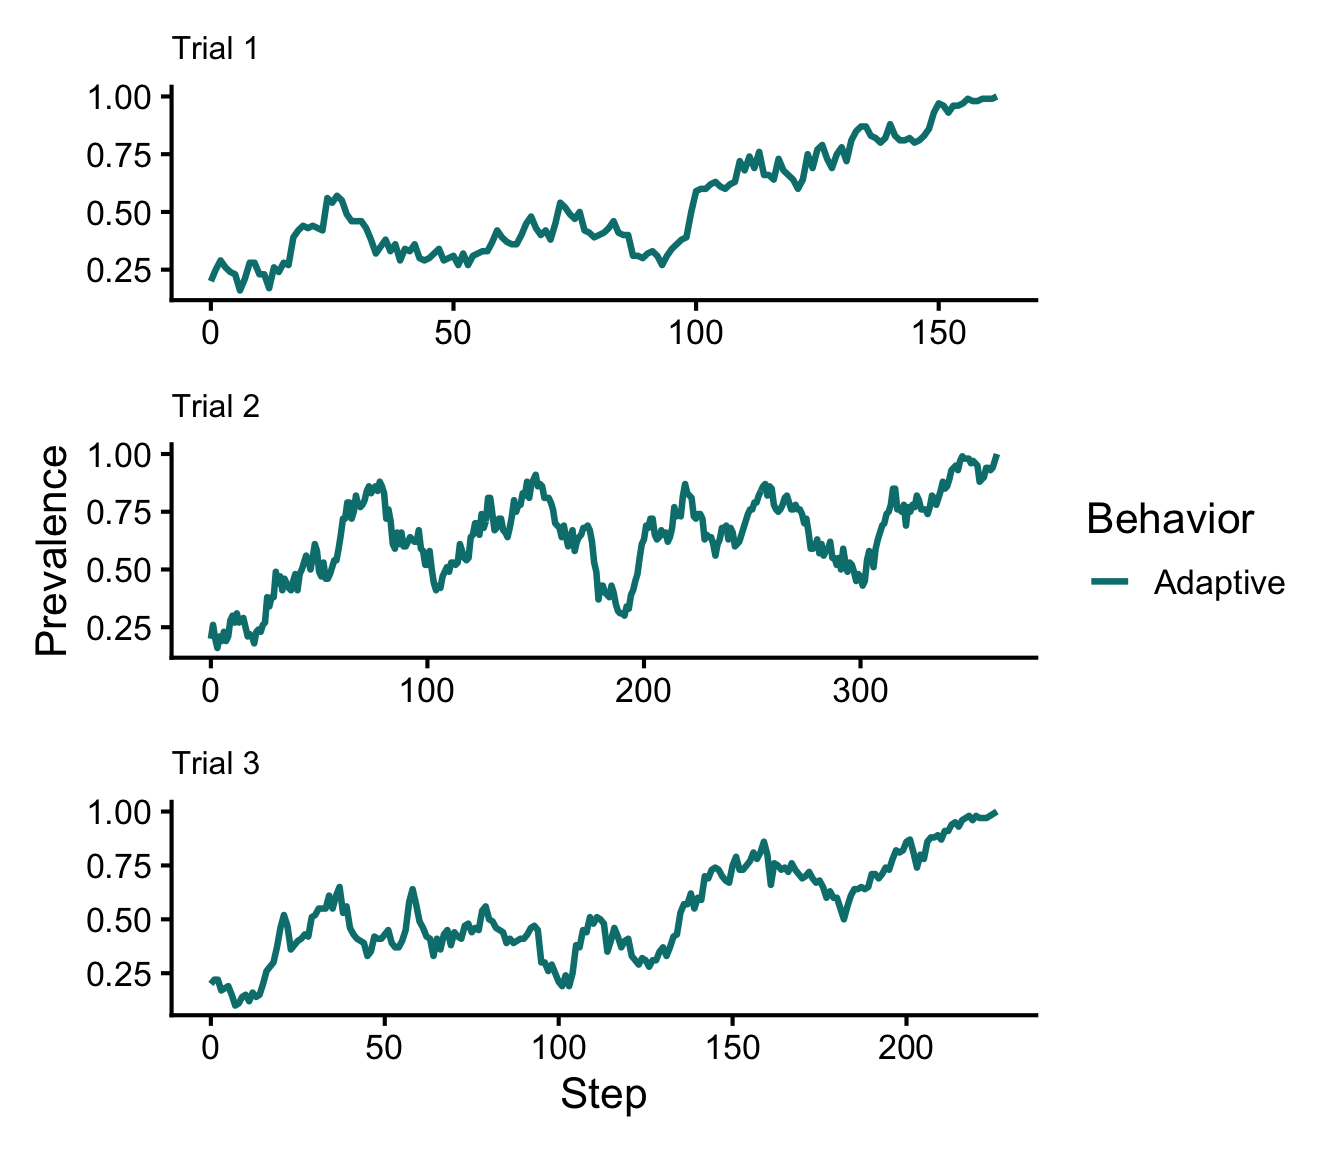
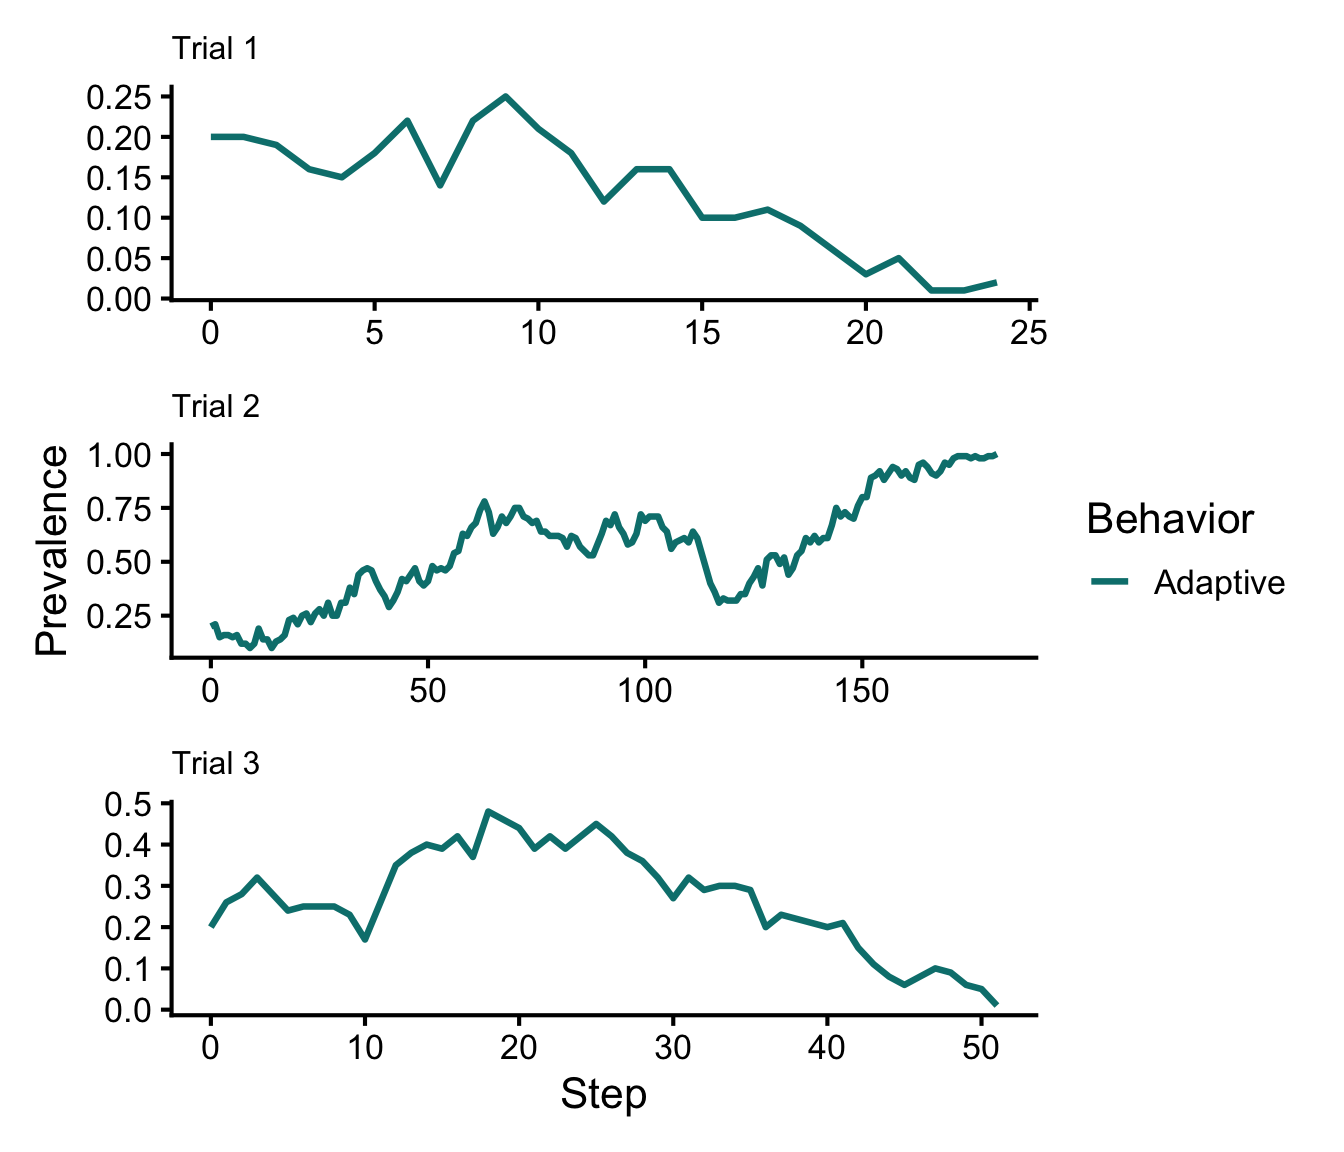
Built site for gh-pages

diff --git a/posts/free-agents-adapt-better/index.html b/posts/free-agents-adapt-better/index.html
@@ -415,7 +415,11 @@ window.Quarto = {
   <ul class="collapse">
   <li><a href="#the-prevalence-dynamic-equation" id="toc-the-prevalence-dynamic-equation" class="nav-link" data-scroll-target="#the-prevalence-dynamic-equation"><span class="header-section-number">2.1.1</span> The <em>prevalence dynamic</em> equation</a></li>
   </ul></li>
-  <li><a href="#agent-based-model" id="toc-agent-based-model" class="nav-link" data-scroll-target="#agent-based-model"><span class="header-section-number">2.2</span> Agent-based model</a></li>
+  <li><a href="#agent-based-model" id="toc-agent-based-model" class="nav-link" data-scroll-target="#agent-based-model"><span class="header-section-number">2.2</span> Agent-based model</a>
+  <ul class="collapse">
+  <li><a href="#conformity-model-dynamics" id="toc-conformity-model-dynamics" class="nav-link" data-scroll-target="#conformity-model-dynamics"><span class="header-section-number">2.2.1</span> Conformity model dynamics</a></li>
+  <li><a href="#success-biased-model-dynamics" id="toc-success-biased-model-dynamics" class="nav-link" data-scroll-target="#success-biased-model-dynamics"><span class="header-section-number">2.2.2</span> Success-biased model dynamics</a></li>
+  </ul></li>
   </ul></li>
   </ul>
 </nav>
@@ -510,6 +514,8 @@ Figure&nbsp;1: The VIBE system helps us identify how sustainability priorities c
 </div>
 </div>
 </div>
+<section id="conformity-model-dynamics" class="level3" data-number="2.2.1">
+<h3 data-number="2.2.1" class="anchored" data-anchor-id="conformity-model-dynamics"><span class="header-section-number">2.2.1</span> Conformity model dynamics</h3>
 <div class="cell">
 <div class="sourceCode cell-code" id="cb4"><pre class="sourceCode r code-with-copy"><code class="sourceCode r"><span id="cb4-1"><a href="#cb4-1" aria-hidden="true" tabindex="-1"></a>conformity_dynamics <span class="ot">&lt;-</span> <span class="fu">make_model_dynamics</span>(</span>
 <span id="cb4-2"><a href="#cb4-2" aria-hidden="true" tabindex="-1"></a>  </span>
@@ -572,8 +578,22 @@ Figure&nbsp;1: The VIBE system helps us identify how sustainability priorities c
 </div>
 </div>
 </div>
+<section id="conformity-dynamics-with-different-initial-a" class="level4">
+<h4 class="anchored" data-anchor-id="conformity-dynamics-with-different-initial-a">Conformity dynamics with different initial <span class="math inline">\(a\)</span></h4>
+</section>
+</section>
+<section id="success-biased-model-dynamics" class="level3" data-number="2.2.2">
+<h3 data-number="2.2.2" class="anchored" data-anchor-id="success-biased-model-dynamics"><span class="header-section-number">2.2.2</span> Success-biased model dynamics</h3>
+<ul>
+<li>We define “success” here as the fitness of one’s behavior. Learners are biased towards teachers who are more successful in success-biased learning.
+<ul>
+<li>This means we need to implement partner selection, which samples some number of demonstrators, then samples one randomly, weighted by payoff.</li>
+<li>Interaction is simple in this model: we assume perfect learning, i.e., the learner always adopts its chosen teacher’s behavior</li>
+</ul></li>
+</ul>
 
 
+</section>
 </section>
 </section>
 

diff --git a/index.html b/index.html
@@ -392,7 +392,7 @@ window.Quarto = {
 
 <div class="quarto-listing quarto-listing-container-default" id="listing-listing">
 <div class="list quarto-listing-default">
[2 lines of base64/hex data omitted]
 <div class="thumbnail"><a href="./posts/free-agents-adapt-better/index.html" class="no-external">
 
 <p class="card-img-top"><img src="posts/free-agents-adapt-better/Figures/intro-sdg-vibe.png"  class="thumbnail-image card-img"/></p>
